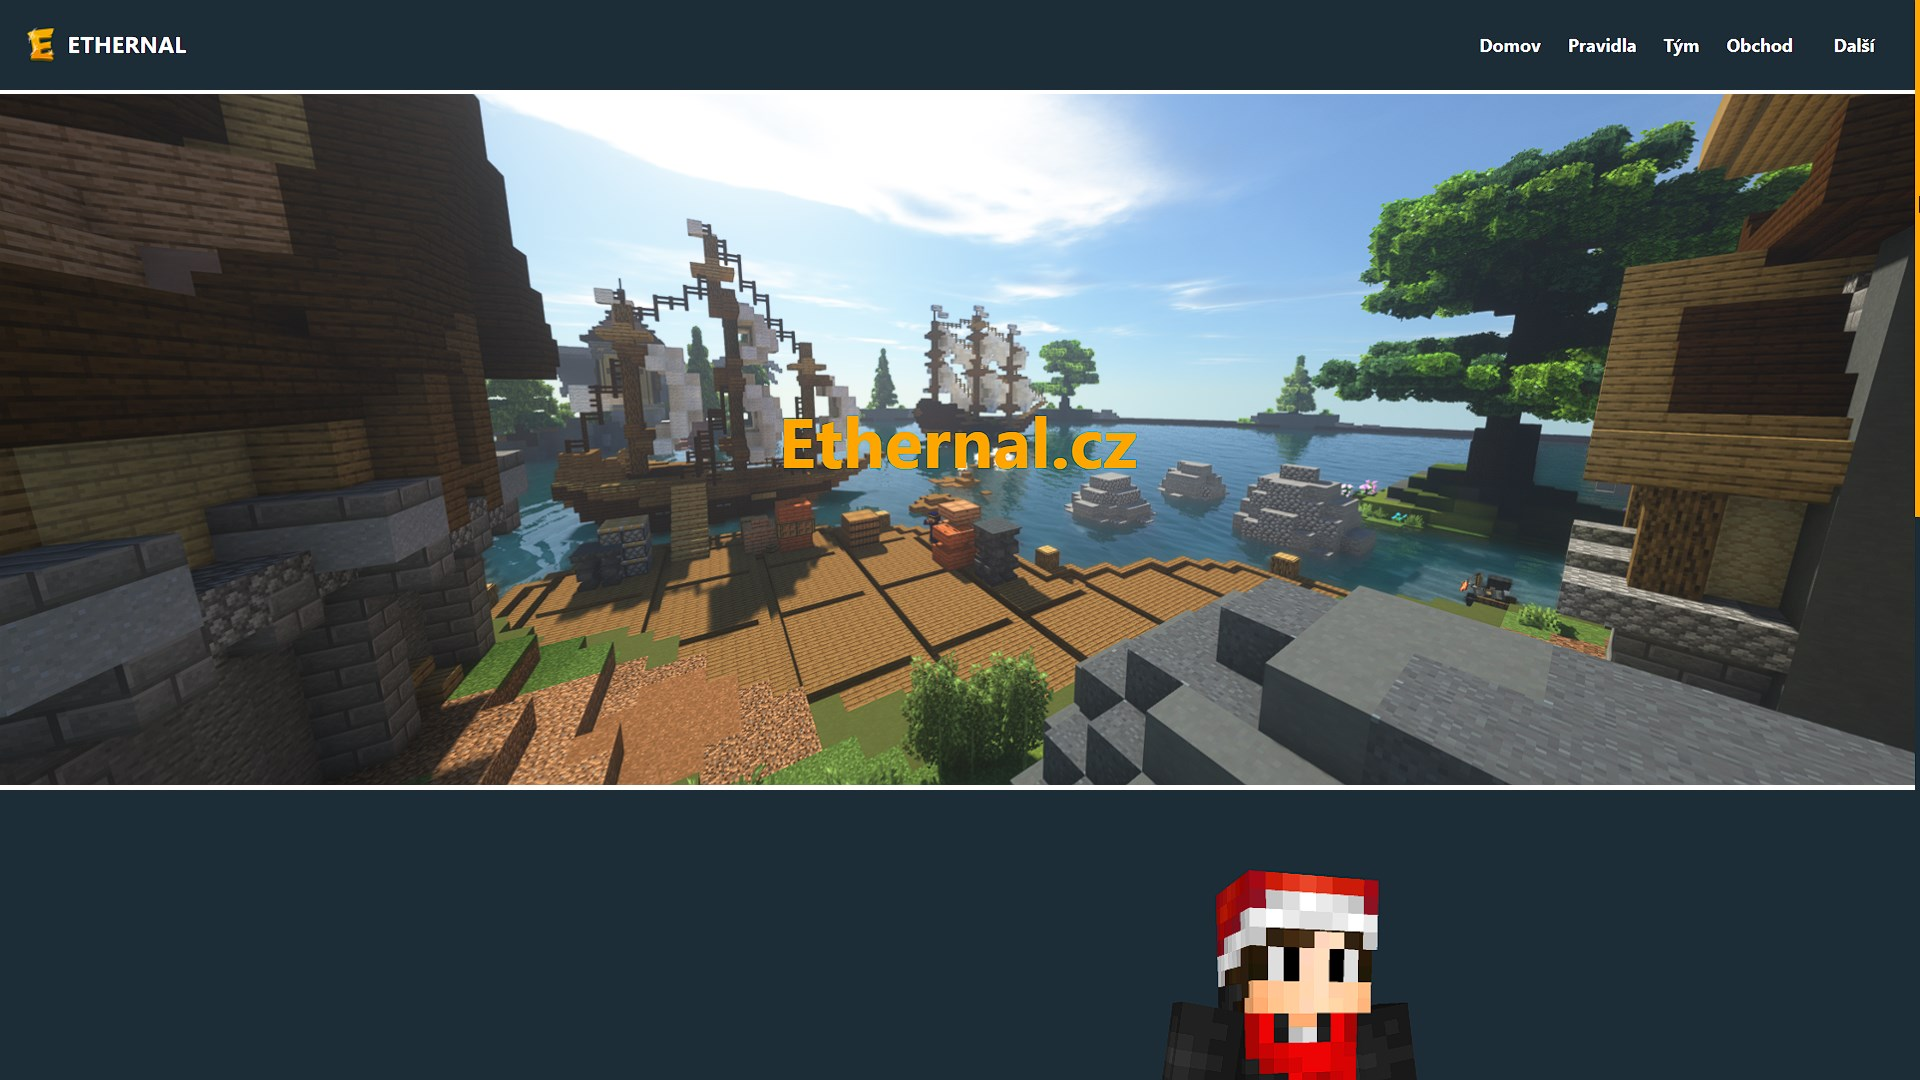
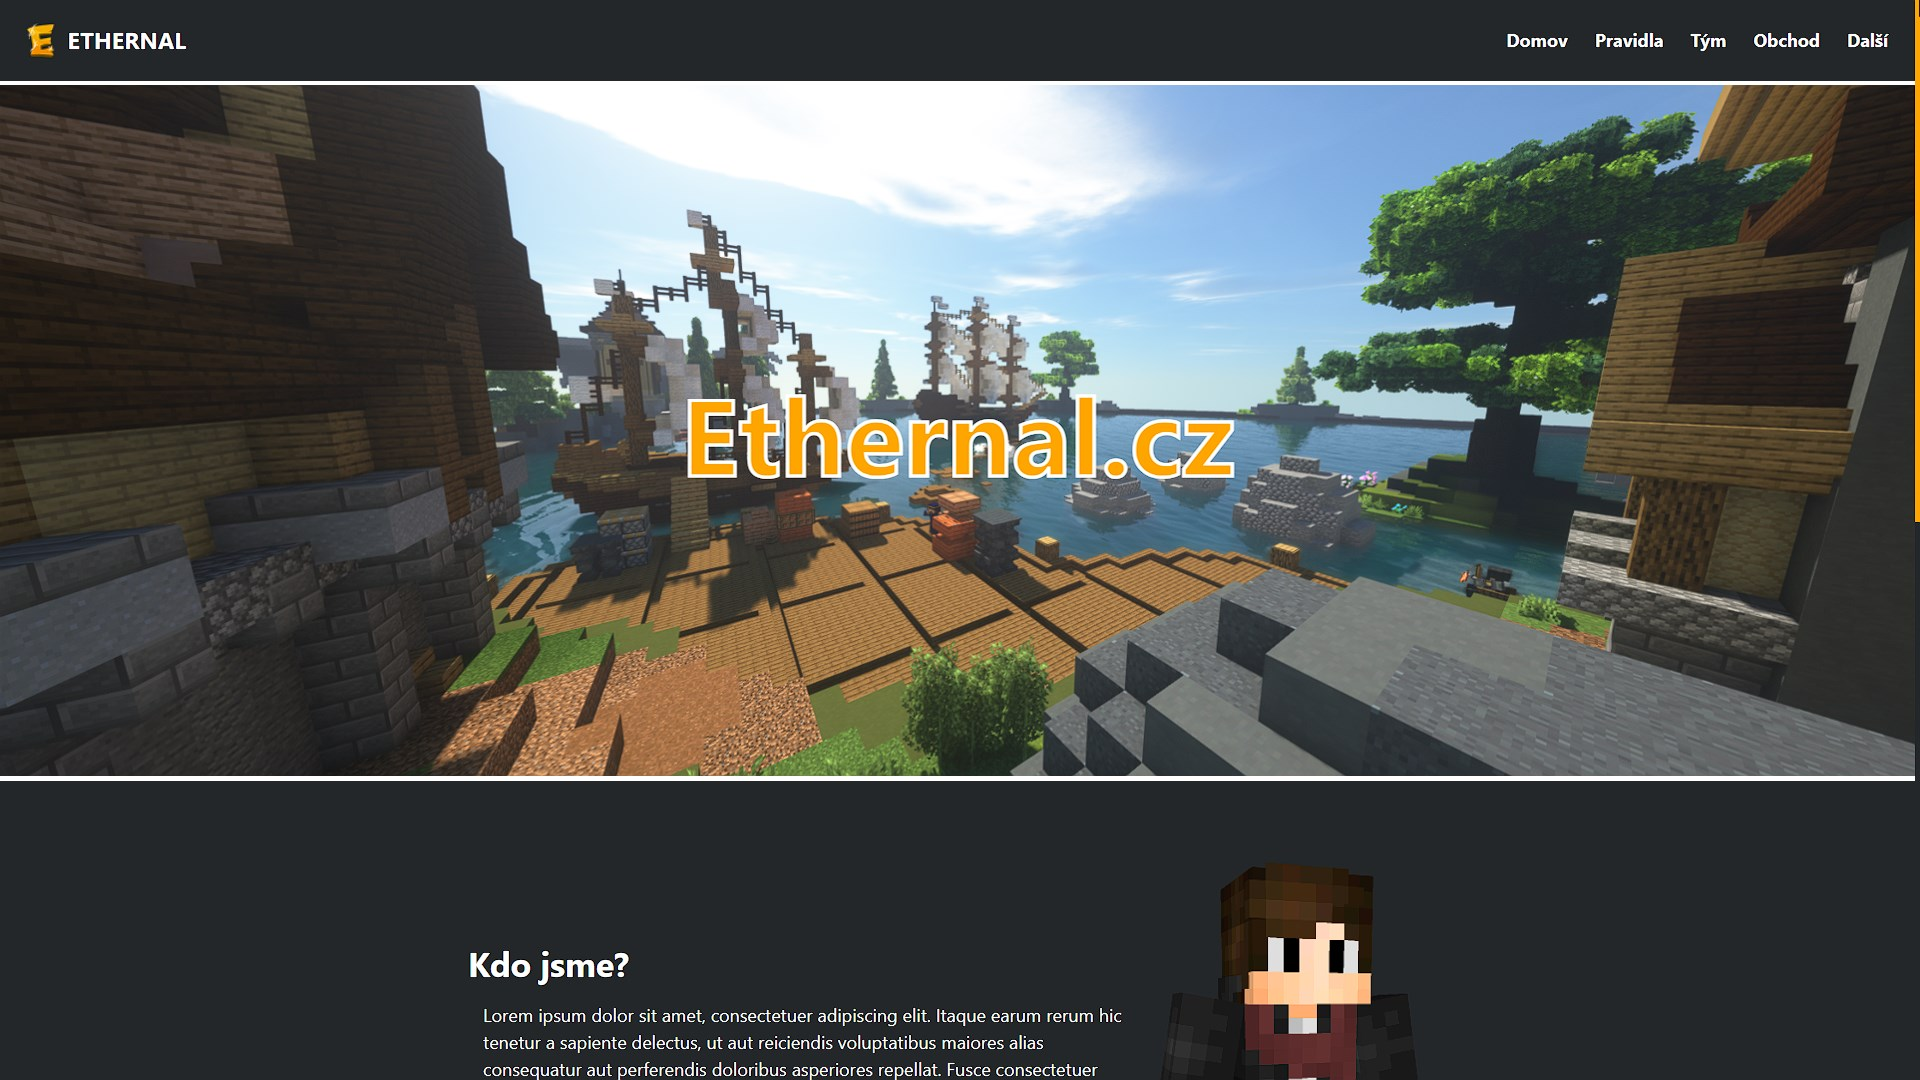
feat: add animation to pages

diff --git a/pages/info.js b/pages/info.js
@@ -1,35 +1,36 @@
 import Layout from '../components/layout'
 import ParticlesComponent from '../components/paticlecomponent'
+import { motion } from 'framer-motion'
 
 export default function Info() {
   return (
     <Layout>
-       <>
+       <motion.div exit={{opacity: 0, transition: {duration: 0.6, delay: 0.5}}} initial={{opacity: 0}} animate={{opacity: 1, transition: {duration: 0.6}}}>
               <ParticlesComponent />
               <div className='info2'>
                 <div className="langs-container">
                     <div className="langs-container-3">
-                        <p className="skilstext">HTML | CSS</p>
-                        <div className="w3-container w3-blue w3-round-xlarge HTML" ><span className="skills-number1">100%</span></div>
+                        <motion.p className="skilstext" exit={{x: 150, opacity: 0, transition: {duration: 0.6, delay: 0.5}}} initial={{x: -150, opacity: 0}} animate={{x: 0, opacity: 1, transition: {duration: 0.6, delay: .1}}}>HTML | CSS</motion.p>
+                        <motion.div className="w3-container w3-blue w3-round-xlarge HTML" exit={{y: 150, opacity: 0, transition: {duration: 0.6, delay: 0.5}}} initial={{y: 150, opacity: 0}} animate={{y: 0, opacity: 1, transition: {duration: 0.6, delay: .1}}} ><span className="skills-number1">100%</span></motion.div>
                         <br />
-                        <p className="skilstext">JavaScript | NodeJS</p>
-                        <div className="w3-container w3-blue w3-round-xlarge NODEJS" ><span className="skills-number2">88%</span></div>
+                        <motion.p className="skilstext" exit={{x: -150, opacity: 0, transition: {duration: 0.6, delay: 0.4}}} initial={{x: 150, opacity: 0}} animate={{x: 0, opacity: 1, transition: {duration: 0.6, delay: .25}}}>JavaScript | NodeJS</motion.p>
+                        <motion.div className="w3-container w3-blue w3-round-xlarge NODEJS" exit={{y: 150, opacity: 0, transition: {duration: 0.6, delay: 0.4}}} initial={{y: 150, opacity: 0}} animate={{y: 0, opacity: 1, transition: {duration: 0.6, delay: .25}}} ><span className="skills-number2">88%</span></motion.div>
                         <br />
-                        <p className="skilstext">ReactJS | ExpressJS | NextJS</p>
-                        <div className="w3-container w3-blue w3-round-xlarge REACTJS" ><span className="skills-number5">70%</span></div>
+                        <motion.p className="skilstext" exit={{x: 150, opacity: 0, transition: {duration: 0.6, delay: 0.3}}} initial={{x: -150, opacity: 0}} animate={{x: 0, opacity: 1, transition: {duration: 0.6, delay: .37}}}>ReactJS | ExpressJS | NextJS</motion.p>
+                        <motion.div className="w3-container w3-blue w3-round-xlarge REACTJS" exit={{y: 150, opacity: 0, transition: {duration: 0.6, delay: 0.3}}} initial={{y: 150, opacity: 0}} animate={{y: 0, opacity: 1, transition: {duration: 0.6, delay: .37}}}><span className="skills-number5">70%</span></motion.div>
                         <br />
-                        <p className="skilstext">Dockerfile</p>
-                        <div className="w3-container w3-blue w3-round-xlarge Dockerfile" ><span className="skills-number6">40%</span></div>
+                        <motion.p className="skilstext" exit={{x: -150, opacity: 0, transition: {duration: 0.6, delay: 0.2}}} initial={{x: 150, opacity: 0}} animate={{x: 0, opacity: 1, transition: {duration: 0.6, delay: .44}}}>Dockerfile</motion.p>
+                        <motion.div className="w3-container w3-blue w3-round-xlarge Dockerfile" exit={{y: 150, opacity: 0, transition: {duration: 0.6, delay: 0.2}}} initial={{y: 150, opacity: 0}} animate={{y: 0, opacity: 1, transition: {duration: 0.6, delay: .44}}}><span className="skills-number6">40%</span></motion.div>
                         <br />
-                        <p className="skilstext">PHP</p>
-                        <div className="w3-container w3-blue w3-round-xlarge PHP" ><span className="skills-number4">25%</span></div>
+                        <motion.p className="skilstext" exit={{x: 150, opacity: 0, transition: {duration: 0.6, delay: 0.1}}} initial={{x: -150, opacity: 0}} animate={{x: 0, opacity: 1, transition: {duration: 0.6, delay: .52}}}>PHP</motion.p>
+                        <motion.div className="w3-container w3-blue w3-round-xlarge PHP" exit={{y: 150, opacity: 0, transition: {duration: 0.6, delay: 0.1}}} initial={{y: 150, opacity: 0}} animate={{y: 0, opacity: 1, transition: {duration: 0.6, delay: .52}}}><span className="skills-number4">25%</span></motion.div>
                         <br />
-                        <p className="skilstext">Java</p>
-                        <div className="w3-container w3-blue w3-round-xlarge StyleMake" ><span className="skills-number3">10%</span></div>
+                        <motion.p className="skilstext" exit={{x: -150, opacity: 0, transition: {duration: 0.6}}} initial={{x: 150, opacity: 0}} animate={{x: 0, opacity: 1, transition: {duration: 0.6, delay: .64}}}>Java</motion.p>
+                        <motion.div className="w3-container w3-blue w3-round-xlarge StyleMake" exit={{y: 150, opacity: 0, transition: {duration: 0.6}}} initial={{y: 150, opacity: 0}} animate={{y: 0, opacity: 1, transition: {duration: 0.6, delay: .64}}}><span className="skills-number3">10%</span></motion.div>
                     </div>
                 </div>
             </div>
-        </>
+        </motion.div>
     </Layout>
   )
 }

diff --git a/pages/index.js b/pages/index.js
@@ -4,38 +4,30 @@ import Typing from '../components/typing'
 import ParticlesComponent from '../components/paticlecomponent'
 import Image from 'next/image'
 import Banner from '../public/images/Funny.gif'
-import present from 'present'
-import { IoIosTimer } from '@react-icons/all-files/io/IoIosTimer'
+import { motion } from 'framer-motion'
 
 export default function Home() {
 
-    const Time = present() / 1000;
-    var LoadTime = Time.toString().substring(0, 5)
-
-
   return (
     <Layout>
-       <>
+       <motion.div exit={{opacity: 0, transition: {duration: 0.6}}} initial={{opacity: 0}} animate={{opacity: 1, transition: {duration: 0.6}}}>
             <div className='wraper'>
               <ParticlesComponent />
-                <div className='centerBox'> 
+                <motion.div className='centerBox' exit={{y: -100 , opacity: 0, transition: {duration: 0.8}}} initial={{y: 300 , opacity: 0}} animate={{y: 0 , opacity: 1, transition: {duration: 0.8}}}> 
                     <div className='centerMain'>
                         <div className='Banner'>
                             <Image className='Banner' src={Banner} alt='Funny' />
                         </div>
                         <div className='ContentMove'>
-                            <div className='Avatar'>
+                            <motion.div className='Avatar' exit={{x: -250, opacity: 0, transition: {duration: 0.6}}} initial={{x: -300, opacity: 0}} animate={{x: 0, opacity: 1, transition: {duration: 0.7, delay: 0.3, type: 'spring', bounce: 0.25, damping: 6,}}}>
                                 <Image priority="1" className='Avatar' src="/images/profile.gif" alt='profile' height='200px' width="200px" />
-                            </div>
-                            <div className='Center'>
+                            </motion.div>
+                            <motion.div className='Center' exit={{y: 100, opacity: 0, transition: {duration: 0.6}}} initial={{y: 180, opacity: 0}} animate={{y: 0, opacity: 1, transition: {duration: 0.6, delay: 0.9}}}>
                                 <h1 className='Name'>Pan_Okurka</h1>
                                 <h2 className='text'>I code in <Typing/></h2>
                                 <div className='customText'><h2><i>„Je dost těžké najít chybu v kódu, když ji hledáte; je to ještě těžší, když předpokládáte, že váš kód je bez chyb.“</i><br/><span className='podpis'>- Steve McConnell</span></h2></div>
-                                <div className='LoadTime'>
-                                    <IoIosTimer/><h4>{LoadTime}s</h4>
-                                </div>
-                            </div>
-                            <div className='Links'>
+                            </motion.div>
+                            <motion.div className='Links' exit={{x: 250, opacity: 0, transition: {duration: 0.6}}} initial={{x: 310, opacity: 0}} animate={{x:0, opacity: 1, transition: {duration: 0.7, delay: 0.6}}}>
                                 <a href='https://github.com/PanOkurka' className='socialiconlist'>
                                     <FaGithub className='githubIcon' />
                                 </a>
@@ -48,13 +40,13 @@ export default function Home() {
                                 <a href='https://discord.gg/wn5aF2w' className='socialiconlist'>
                                     <FaDiscord className='discordIcon' />
                                 </a>
-                            </div>
+                            </motion.div>
                         </div>
                     </div>
-                </div>
+                </motion.div>
 
             </div>
-        </>
+        </motion.div>
     </Layout>
   )
 }

diff --git a/pages/bio.js b/pages/bio.js
@@ -1,20 +1,27 @@
 import Layout from '../components/layout'
 import ParticlesComponent from '../components/paticlecomponent'
+import { motion } from 'framer-motion'
 
 export default function Bio() {
   return (
     <Layout>
-       <>
+       <motion.div exit={{opacity: 0, transition: {duration: 0.6}}} initial={{opacity: 0}} animate={{opacity: 1, transition: {duration: 0.6}}}>
               <ParticlesComponent />
                     <div className='center'>
                         <div className="bio-container">
-                                <h1><strong>My Bio:</strong></h1>
+                                <motion.h1 exit={{y: -50, opacity: 0, transition: {duration: 0.6}}} initial={{x: -200, opacity: 0}} animate={{x: 0, opacity: 1, transition: {delay: 0.2, duration: 0.6}}}><strong>My Bio:</strong></motion.h1>
                                 <div className="bio-container-2">
-                                    <p className='p'>Hi! My nickname is <span className='blurpur'>Pan_Okurka</span>. I live in the Czech Republic. I&apos;m coding Discord bots, websites. <br /> <br /> I&apos;ve been coding for about <span className='blurpur'> 4 years</span>. <br /> <br /> U can check out my discord server called <span className='blurpur'>&quot;Cucumber Development&quot;</span>, where I post news about my discord bot. My Discord Tag is <span className='blurpur'>Pan_Okurka#8577</span></p>
+                                    <p className='p'>
+                                      <motion.p exit={{y: 120, opacity: 0, transition: {duration: 0.6, delay: 0.2}}} initial={{y: 150, opacity: 0}} animate={{y: 0, opacity: 1, transition: {duration: 0.6, delay: 0.3}}}>Hi! My nickname is <span className='blurpur'>Pan_Okurka</span>. I live in the Czech Republic. I&apos;m coding Discord bots, websites.</motion.p> 
+                                      <br /> 
+                                      <motion.p exit={{y: 120, opacity: 0, transition: {duration: 0.6, delay: 0.1}}} initial={{y: 150, opacity: 0}} animate={{y: 0, opacity: 1, transition: {duration: 0.6, delay: 0.5}}}>I&apos;ve been coding for about <span className='blurpur'> 4 years</span>.</motion.p> 
+                                      <br /> 
+                                      <motion.p exit={{y: 120, opacity: 0, transition: {duration: 0.6}}} initial={{y: 150, opacity: 0}} animate={{y: 0, opacity: 1, transition: {duration: 0.6, delay: 0.6}}}>U can check out my discord server called <span className='blurpur'>&quot;Cucumber Development&quot;</span>, where I post news about my discord bot. My Discord Tag is <span className='blurpur'>Pan_Okurka#8577</span></motion.p>
+                                      </p>
                                 </div>
                         </div>
                     </div>
-        </>
+        </motion.div>
     </Layout>
   )
 }

diff --git a/pages/projects.js b/pages/projects.js
@@ -2,15 +2,16 @@ import Layout from '../components/layout'
 import ParticlesComponent from '../components/paticlecomponent'
 import CardDeck from 'react-bootstrap/CardGroup'
 import Card from 'react-bootstrap/Card'
+import { motion } from 'framer-motion'
 
 export default function Projects() {
   return (
     <Layout>
-       <>
+       <motion.div exit={{opacity: 0, transition: {duration: 0.6}}} initial={{opacity: 0}} animate={{opacity: 1, transition: {duration: 0.6}}}>
               <ParticlesComponent />
               <div className='center2'>
                 <div className='project-container'>
-                    <div className='space-line'>
+                    <motion.div className='space-line' exit={{x: -250, opacity: 0, transition: {duration: 0.6}}} initial={{x: -300, opacity: 0}} animate={{x: 0, opacity: 1, transition: {duration: 0.7, delay: 0.3, type: 'spring', bounce: 0.25, damping: 6,}}}>
                     <CardDeck>
                     <Card>
                         <Card.Img variant="top" src="/images/Dragonex.jpg" />
@@ -44,8 +45,8 @@ export default function Projects() {
                         </Card.Body>
                     </Card>
                     </CardDeck>
-                    </div>
-                    <div className='space-line'>
+                    </motion.div>
+                    <motion.div className='space-line' exit={{x: 250, opacity: 0, transition: {duration: 0.6}}} initial={{x: 300, opacity: 0}} animate={{x: 0, opacity: 1, transition: {duration: 0.7, delay: 0.3, type: 'spring', bounce: 0.25, damping: 6,}}}>
                     <CardDeck>
                         <Card>
                             <Card.Img variant="top" src="/images/WinDriLogo.png" />
@@ -76,10 +77,10 @@ export default function Projects() {
                             </Card.Body>
                         </Card>
                     </CardDeck>
-                    </div>
+                    </motion.div>
                 </div>
             </div>
-        </>
+        </motion.div>
     </Layout>
   )
 }

diff --git a/pages/ip.js b/pages/ip.js
@@ -3,6 +3,7 @@ import ParticlesComponent from '../components/paticlecomponent'
 import {useState,useEffect} from 'react'
 import axios from 'axios'
 import Image from 'next/image'
+import { motion } from 'framer-motion'
 
 export default function IPFinder() {
 
@@ -24,7 +25,7 @@ export default function IPFinder() {
 
   return (
     <Layout>
-       <>
+       <motion.div exit={{opacity: 0, transition: {duration: 0.6}}} initial={{opacity: 0}} animate={{opacity: 1, transition: {duration: 0.6}}}>
               <ParticlesComponent />
               <div className='IPFinder'>
                     <div className='data'>
@@ -37,7 +38,7 @@ export default function IPFinder() {
                         <Image alt='FunnyDoge' src='https://cdn.discordapp.com/emojis/895685973097205822.webp?size=96&quality=lossless' height='150px' width="150px" />
                     </div>
               </div>
-        </>
+        </motion.div>
     </Layout>
   )
 }

diff --git a/pages/404.js b/pages/404.js
@@ -1,12 +1,11 @@
 import Layout from '../components/layout'
-import { FaGithub, FaDiscord, FaTwitter, FaInstagram } from 'react-icons/fa'
-import Typing from '../components/typing'
 import ParticlesComponent from '../components/paticlecomponent'
+import { motion } from 'framer-motion'
 
 export default function Custom404() {
   return (
     <Layout>
-       <>   
+       <motion.div exit={{opacity: 0, transition: {duration: 0.6}}} initial={{opacity: 0}} animate={{opacity: 1, transition: {duration: 0.6}}}>   
               <ParticlesComponent />
               <div className='notfound'>
                 <div className='notfound-header'>
@@ -14,7 +13,7 @@ export default function Custom404() {
                     <h1 className='glitch' data-text="Page or Content Not Found!">Page or Content Not Found!</h1>
                 </div>
             </div>
-        </>
+        </motion.div>
     </Layout>
   )
 }

diff --git a/pages/_app.js b/pages/_app.js
@@ -1,7 +1,12 @@
 import '../styles/global.css'
 import '../styles/main.css'
 import '../styles/tailwind.css'
+import { AnimatePresence } from 'framer-motion'
 
-export default function App({ Component, pageProps }) {
-    return <Component {...pageProps} />
+export default function App({ Component, pageProps, router }) {
+    return (
+      <AnimatePresence exitBeforeEnter>
+        <Component {...pageProps} key={router.route} />
+      </AnimatePresence>
+    )
   }
